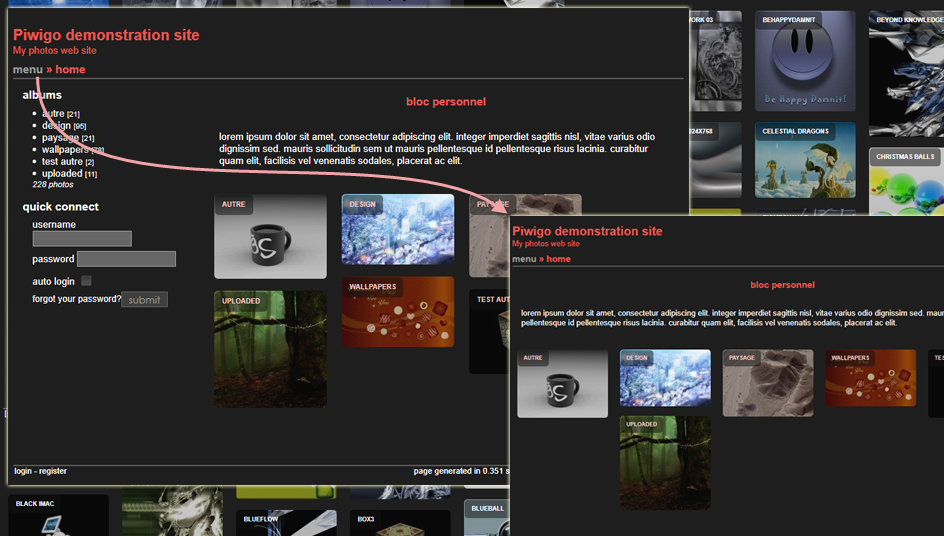
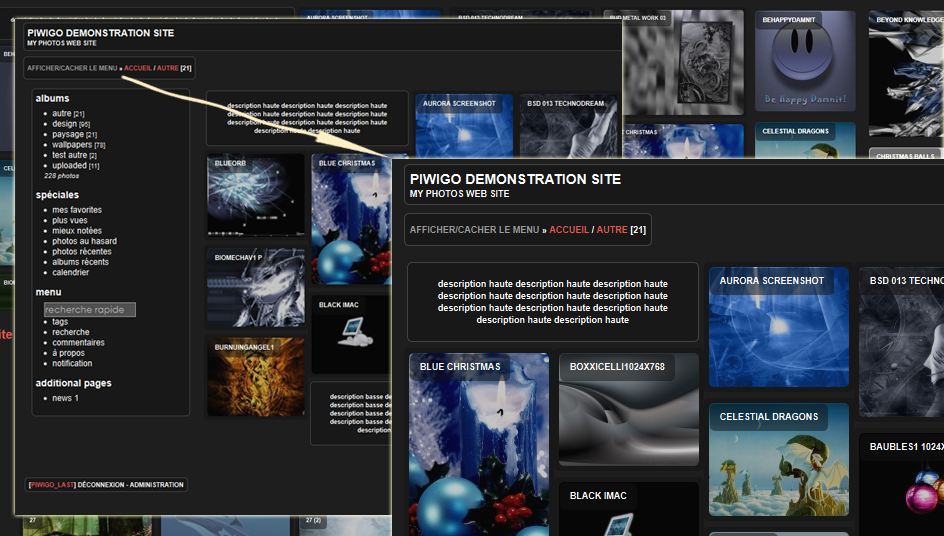
main color (not grey) in config header, elements of footer, elements of tittlebar and the menubar in "bubbles" created 2 new classes : two_columns, one_column width corrected
git-svn-id: http://piwigo.org/svn/extensions/stripped_black_bloc@11823 68402e56-0260-453c-a942-63ccdbb3a9ee

diff --git a/theme.css b/theme.css
@@ -30,6 +30,7 @@
  #subcontent {
     min-height: 490px;
 		display:block;
+		width:auto;
 }
 #menubar {
     display: inline;
@@ -63,7 +64,8 @@
 }
 .bloc {
     display: block;
-    margin: 3px;
+    margin-top: 3px;
+		margin-bottom:3px;
     padding: 5px;
     width: 150px;
 		z-index:999;
@@ -109,6 +111,13 @@
 #subcontent .stuffs_block #comments ul.thumbnailCategories, #comments ul {
 	padding:20px;
 }
+#subcontent .stuffs_block, .content_block {
+	padding:0;
+}
+#theHeader h1 {
+	padding:0;
+}
+	
 /****************
  color backgroung etc 
  ************************/
@@ -141,7 +150,7 @@ a {
 #thePicturePage .left_block, #thePicturePage .right_block, #thePicturePage .middle_block, #content {
   background: transparent
 }
-#theHeader, .titrePage, .titrePage a, .footer_login a, .navigationBar a {
+#theHeader a, .titrePage a, .footer_login a, .navigationBar a {
     color: #E6554F;
 }
 .album {
@@ -158,4 +167,51 @@ a {
 }
 #thePicturePage .left_block, #thePicturePage .right_block, #thePicturePage .middle_block, #content {
 	border:none;
+}
+#menubar {
+	color: #FFFFFF;
+	background-image: url("img/btn.png");
+	border-radius: 5px 5px 5px 5px;
+	font-family: Helvetica,Arial,sans-serif;
+	font-size: 12px;
+	font-weight: bold;
+	text-decoration: none;
+	white-space: normal;
+	border: 1px solid #424242;
+	padding:5px;
+}
+#menubar dd{
+	font-weight:normal;
+}
+.browsePath, #theHeader, .titrePage .categoryActions, #imageTitle, .randomButtons, #footer_left, #copyright {
+	color: #FFFFFF;
+	background-image: url("img/btn.png");
+	background-color:transparent;
+	border-radius: 5px 5px 5px 5px;
+	font-family: Helvetica,Arial,sans-serif;
+	font-size: 9px;
+	font-weight: bold;
+	text-decoration: none;
+	text-transform: uppercase;
+	white-space: normal;
+	border: 1px solid #424242;
+	padding:5px;
+}
+#tabZone {
+	color: #FFFFFF;
+	background-image: url("img/btn.png");
+	border-radius: 5px 5px 5px 5px;
+	font-family: Helvetica,Arial,sans-serif;
+	font-size: 9px;
+	font-weight: bold;
+	text-decoration: none;
+	text-transform: uppercase;
+	white-space: normal;
+	border: 1px solid #424242;
+	padding:5px;
+	background-color:transparent;
+}
+#tabZone * {
+	color: #FFFFFF;
+	background-color:transparent;
 }

diff --git a/admin/upgrade.inc.php b/admin/upgrade.inc.php
@@ -7,6 +7,7 @@ global $prefixeTable, $conf;
 if (!isset($conf['stripped_black_bloc']))
 {
 	$config = array(
+	'color_main'						=> 'E6554F',
 	'column_width'						=> 170,
 	'thumbnail_width'						=> 150,
 	'thumbnail'					=> 'piwigo' //generated - auto - piwigo
@@ -14,9 +15,21 @@ if (!isset($conf['stripped_black_bloc']))
       
     $query = '
 INSERT INTO ' . CONFIG_TABLE . ' (param,value,comment)
-VALUES ("stripped_black_bloc" , "'.pwg_db_real_escape_string(serialize($config)).'" , "column_width#thumbnail_width#thumbnail(generated - auto - piwigo)");';
+VALUES ("stripped_black_bloc" , "'.pwg_db_real_escape_string(serialize($config)).'" , "color_main#column_width#thumbnail_width#thumbnail(generated - auto - piwigo)");';
 
     pwg_query($query);
+		load_conf_from_db();
 }
-load_conf_from_db();
+elseif (count(unserialize( $conf['stripped_black_bloc'] ))!=4) {
+	$config = array(
+	'color_main'						=> 'E6554F',
+	'column_width'						=> 170,
+	'thumbnail_width'						=> 150,
+	'thumbnail'					=> 'piwigo' //generated - auto - piwigo
+      );
+      
+
+	conf_update_param('stripped_black_bloc', pwg_db_real_escape_string(serialize($config)));
+		load_conf_from_db();
+}
 ?>

diff --git a/themeconf.inc.php b/themeconf.inc.php
@@ -24,10 +24,7 @@ load_language('theme.lang', PHPWG_THEMES_PATH.'stripped_black_bloc/');
 
 // Need upgrade?
 
-global $conf;
-
-if (!isset($conf['stripped_black_bloc']))
-  include(PHPWG_THEMES_PATH.'stripped_black_bloc/admin/upgrade.inc.php');
+include(PHPWG_THEMES_PATH.'stripped_black_bloc/admin/upgrade.inc.php');
 
 add_event_handler('loc_begin_page_header', 'set_config_values_stripped_black_bloc');
 
@@ -104,6 +101,10 @@ function stripped_black_bloc_index()
 }
 function stripped_black_bloc_prefilter_index($content, &$smarty)
 {
+  $search = '#Menu</span>#';  
+  $replacement = "{'Show/hide menu'|@translate}</span>";
+	
+  $content = preg_replace($search, $replacement, $content);
   $search = '#\{if \!empty\(\$navbar\) \}[\s]*\{include file=\'navigation_bar\.tpl\'\|@get_extent:\'navbar\'\}[\s]*\{/if\}#';  
   $replacement = '';
   $content = preg_replace($search, $replacement, $content);

diff --git a/admin/maintain.inc.php b/admin/maintain.inc.php
@@ -7,6 +7,7 @@ function theme_activate($id, $version, &$errors)
   if (!isset($conf['stripped_black_bloc']))
   {
     $config = array(
+	'color_main'						=> 'E6554F',
 	'column_width'						=> 170,
 	'thumbnail_width'						=> 150,
 	'thumbnail'					=> 'piwigo' //generated - auto - piwigo
@@ -14,7 +15,7 @@ function theme_activate($id, $version, &$errors)
       
     $query = '
 INSERT INTO ' . CONFIG_TABLE . ' (param,value,comment)
-VALUES ("stripped_black_bloc" , "'.pwg_db_real_escape_string(serialize($config)).'" ,  "column_width#thumbnail_width#thumbnail(generated - auto - piwigo)");';
+VALUES ("stripped_black_bloc" , "'.pwg_db_real_escape_string(serialize($config)).'" , "color_main#column_width#thumbnail_width#thumbnail(generated - auto - piwigo)");';
 
     pwg_query($query);
   }

diff --git a/admin/admin.inc.php b/admin/admin.inc.php
@@ -13,6 +13,7 @@ $config_send= array();
 
 if(isset($_POST['submit_stripped_black_bloc']))
 {
+	$config_send['color_main']=(isset($_POST['f_color_main']) and !empty($_POST['f_color_main'])) ? $_POST['f_color_main'] : 'E6554F';
 	$config_send['thumbnail']=(isset($_POST['f_thumbnail'])) ? $_POST['f_thumbnail'] : 'piwigo';
 	$config_send['column_width']=(isset($_POST['f_column_width'])) ? $_POST['f_column_width'] : 170;
 	if ( isset($_POST['f_column_width']) and isset($_POST['f_thumbnail_width']))

diff --git a/language/fr_FR/theme.lang.php b/language/fr_FR/theme.lang.php
@@ -2,6 +2,7 @@
 
 $lang['Stripped & Columns Theme Configuration'] = 'Stripped & Columns, Page de configuration';
 $lang['Page'] = 'Page';
+$lang['color main'] = "Couleur non grise :";
 $lang['Displaying options'] = "Options d'affichage";
 $lang['Width of columns'] = "Largeur des colonnes";
 $lang['Width of thumbnails'] = "Largeur des miniatures";

diff --git a/language/en_UK/theme.lang.php b/language/en_UK/theme.lang.php
@@ -2,6 +2,7 @@
 
 $lang['Stripped & Columns Theme Configuration'] = 'Stripped & Columns, Configuration Page';
 $lang['Page'] = 'Page';
+$lang['color main'] = "Not grey color :";
 $lang['Displaying options'] = "Display options";
 $lang['Width of columns'] = "Width of columns";
 $lang['Width of thumbnails'] = "Width of thumbnails";
